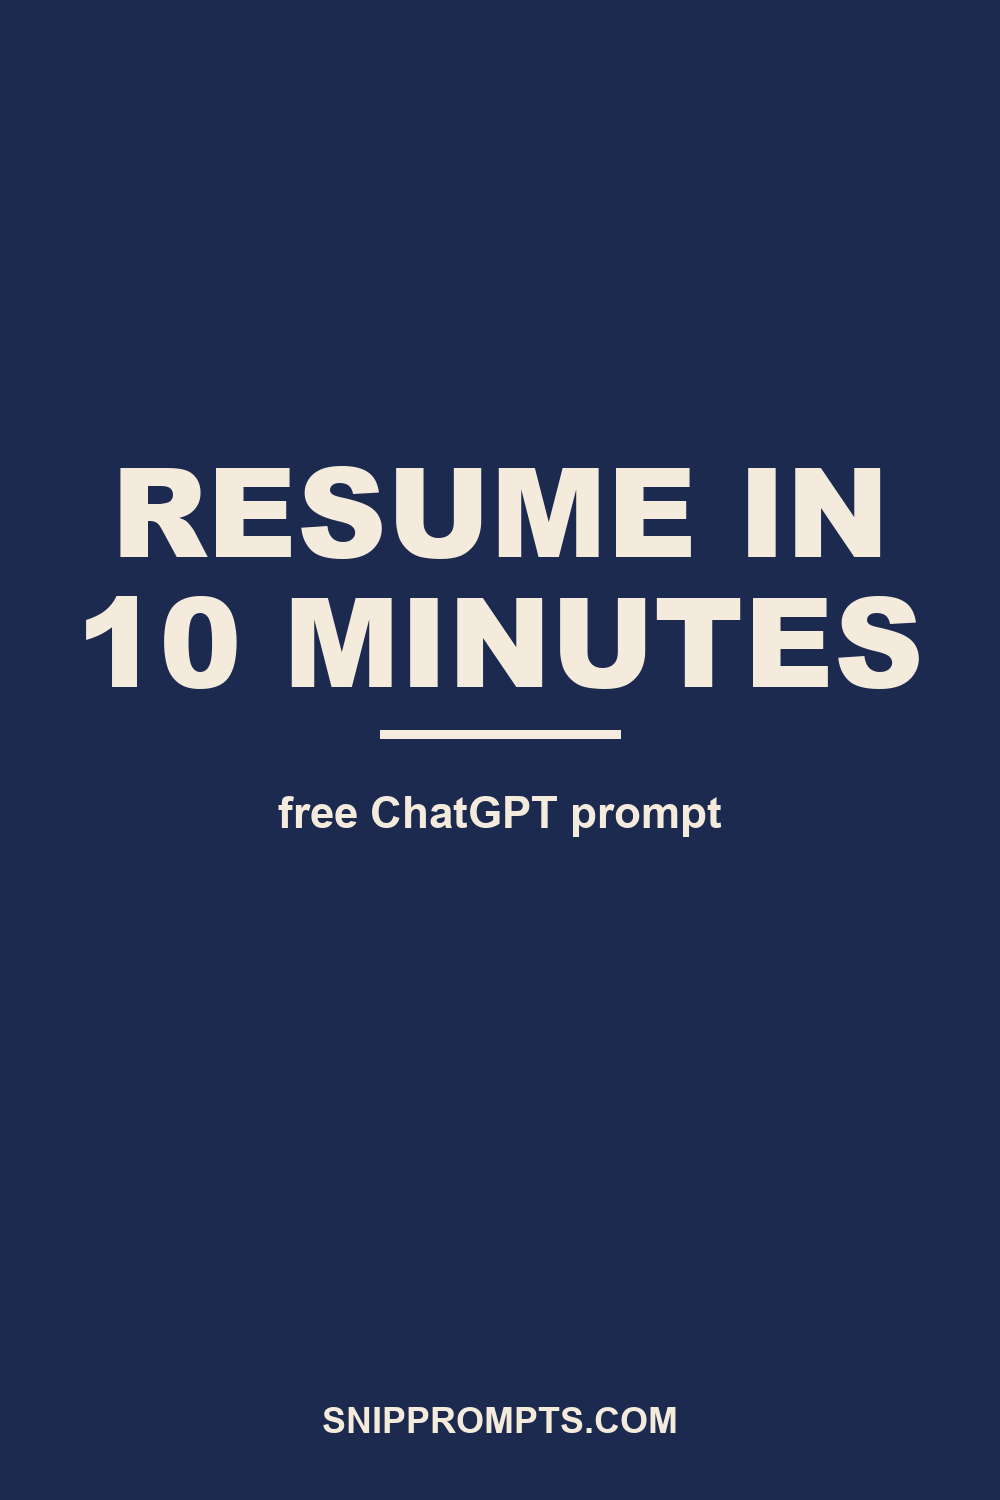
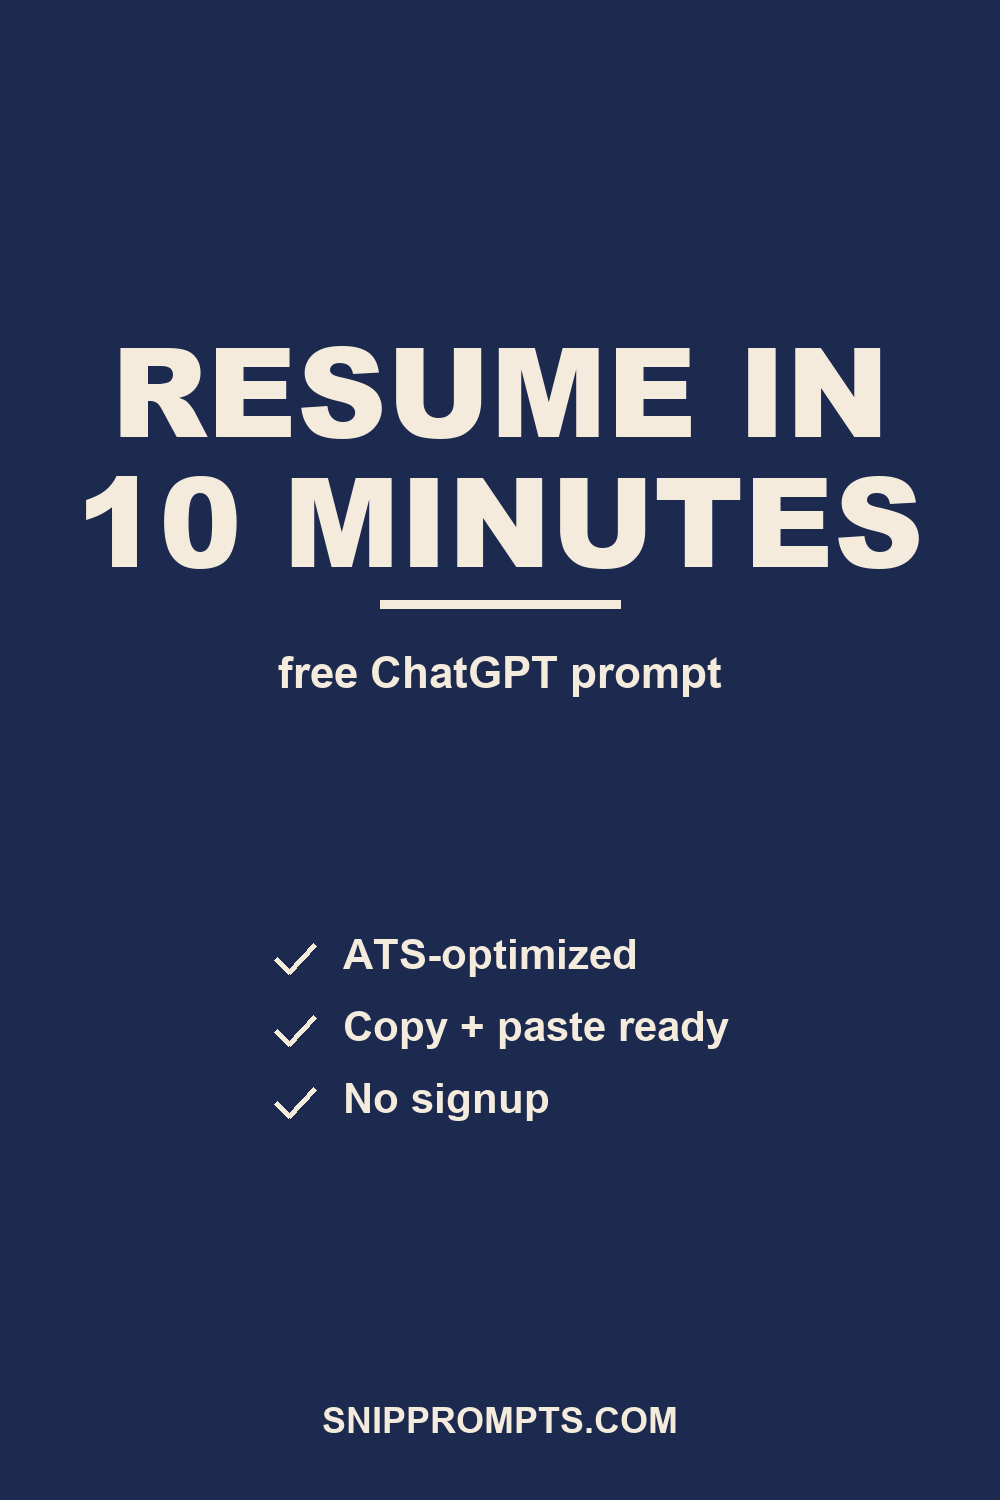
update pin designs: add benefit lists

diff --git a/pins/generate_pins.py b/pins/generate_pins.py
@@ -11,14 +11,18 @@ FOREST = "#1F3D2E"
 
 FONT_BLACK = "/System/Library/Fonts/Supplemental/Arial Black.ttf"
 FONT_BOLD = "/System/Library/Fonts/Supplemental/Arial Bold.ttf"
-FONT_REG = "/System/Library/Fonts/Supplemental/Arial.ttf"
 
 PINS = [
-    ("pin-01-resume.png",      NAVY,   ["RESUME IN",       "10 MINUTES"]),
-    ("pin-02-cover-letter.png", NAVY,   ["COVER LETTERS",   "THAT GET READ"]),
-    ("pin-03-interview.png",    NAVY,   ["NAIL YOUR NEXT",  "INTERVIEW"]),
-    ("pin-04-investing.png",    FOREST, ["INVESTING",       "EXPLAINED",        "SIMPLY"]),
-    ("pin-05-debt.png",         FOREST, ["DEBT PAYOFF",     "PLAN IN 5 MIN"]),
+    ("pin-01-resume.png",      NAVY,   ["RESUME IN",       "10 MINUTES"],
+        ["ATS-optimized",       "Copy + paste ready",       "No signup"]),
+    ("pin-02-cover-letter.png", NAVY,  ["COVER LETTERS",   "THAT GET READ"],
+        ["Hooks in 7 seconds",  "Tailored to the job",      "Sounds human"]),
+    ("pin-03-interview.png",    NAVY,  ["NAIL YOUR NEXT",  "INTERVIEW"],
+        ["Real hiring questions", "AI scores your answers", "Works for any industry"]),
+    ("pin-04-investing.png",    FOREST,["INVESTING",       "EXPLAINED",        "SIMPLY"],
+        ["Zero jargon",         "Personalized to your income", "Beginner-friendly"]),
+    ("pin-05-debt.png",         FOREST,["DEBT PAYOFF",     "PLAN IN 5 MIN"],
+        ["Avalanche or snowball","Month-by-month plan",      "No app download"]),
 ]
 
 OUT_DIR = Path(__file__).parent
@@ -26,7 +30,6 @@ OUT_DIR.mkdir(exist_ok=True)
 
 
 def fit_font_size(lines, font_path, max_width, start_size=160, min_size=70):
-    """Find the largest font size where every line fits max_width."""
     for size in range(start_size, min_size - 1, -2):
         font = ImageFont.truetype(font_path, size)
         img = Image.new("RGB", (10, 10))
@@ -36,43 +39,62 @@ def fit_font_size(lines, font_path, max_width, start_size=160, min_size=70):
     return ImageFont.truetype(font_path, min_size), min_size
 
 
-def make_pin(filename, bg_color, headline_lines):
+def make_pin(filename, bg_color, headline_lines, benefits):
     img = Image.new("RGB", (W, H), bg_color)
     draw = ImageDraw.Draw(img)
 
-    # Headline — fit to 860px wide (70px padding each side)
+    # Headline
     max_w = 860
     headline_font, hsize = fit_font_size(headline_lines, FONT_BLACK, max_w)
-
-    # Line height ≈ 1.05x font size for Arial Black
     line_h = int(hsize * 1.05)
     block_h = line_h * len(headline_lines)
-
-    # Center the headline block vertically within the top 60% (0-900)
-    headline_top = (900 - block_h) // 2 + 100  # nudge down 100px from true center
-
+    # Top of canvas, leave ~300px padding so headline block starts there
+    headline_top = 300
     y = headline_top
     for line in headline_lines:
         tw = draw.textlength(line, font=headline_font)
         draw.text(((W - tw) // 2, y), line, font=headline_font, fill=CREAM)
         y += line_h
 
-    # Accent bar — centered under headline
-    bar_y = y + 50
-    bar_w = 240
-    bar_h = 8
+    # Accent bar
+    bar_y = y + 40
+    bar_w, bar_h = 240, 8
     draw.rectangle(
         [(W - bar_w) // 2, bar_y, (W + bar_w) // 2, bar_y + bar_h],
         fill=CREAM,
     )
 
-    # Subline — "(free ChatGPT prompt)" below accent bar
+    # Subtitle
     sub_font = ImageFont.truetype(FONT_BOLD, 44)
     sub = "free ChatGPT prompt"
     sw = draw.textlength(sub, font=sub_font)
-    draw.text(((W - sw) // 2, bar_y + bar_h + 50), sub, font=sub_font, fill=CREAM)
+    sub_y = bar_y + bar_h + 40
+    draw.text(((W - sw) // 2, sub_y), sub, font=sub_font, fill=CREAM)
 
-    # Footer — SNIPPROMPTS.COM in small caps at bottom
+    # Benefits block — drawn checkmark + text per line, left-aligned, block centered
+    ben_font = ImageFont.truetype(FONT_BOLD, 42)
+    check_w = 48          # width of checkmark shape
+    gap = 24              # space between checkmark and text
+    widest_text = max(draw.textlength(b, font=ben_font) for b in benefits)
+    block_w = check_w + gap + widest_text
+    block_x = (W - block_w) // 2
+
+    ben_top = int(H * 0.62)
+    line_stride = 72
+
+    for i, b in enumerate(benefits):
+        y0 = ben_top + i * line_stride
+        # Draw checkmark: ▁▁▁▁▁▁▁▁▁▁▁▁▁▁ two strokes forming √
+        cx = block_x
+        cy = y0 + 8         # visually align with text baseline
+        # stroke 1: down-right
+        draw.line([(cx + 4, cy + 20), (cx + 18, cy + 34)], fill=CREAM, width=6)
+        # stroke 2: up-right (longer)
+        draw.line([(cx + 18, cy + 34), (cx + 44, cy + 6)], fill=CREAM, width=6)
+        # text
+        draw.text((block_x + check_w + gap, y0), b, font=ben_font, fill=CREAM)
+
+    # Footer
     foot_font = ImageFont.truetype(FONT_BOLD, 36)
     foot = "SNIPPROMPTS.COM"
     fw = draw.textlength(foot, font=foot_font)
@@ -84,5 +106,5 @@ def make_pin(filename, bg_color, headline_lines):
 
 
 if __name__ == "__main__":
-    for fn, bg, lines in PINS:
-        make_pin(fn, bg, lines)
+    for fn, bg, lines, benefits in PINS:
+        make_pin(fn, bg, lines, benefits)
